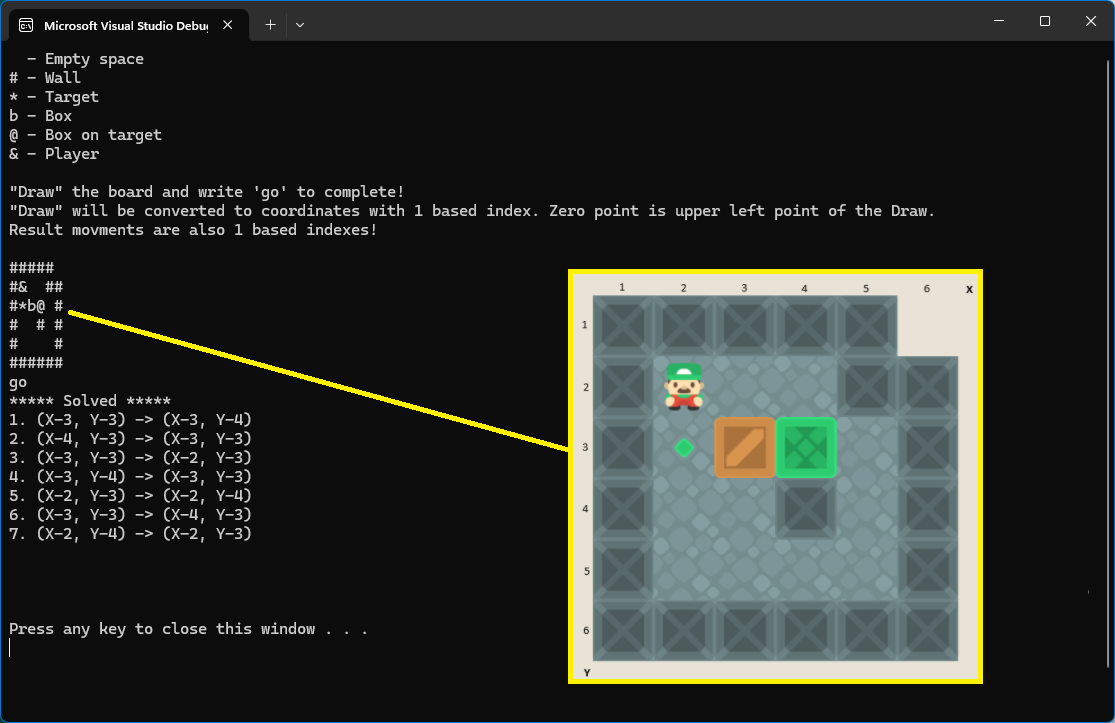
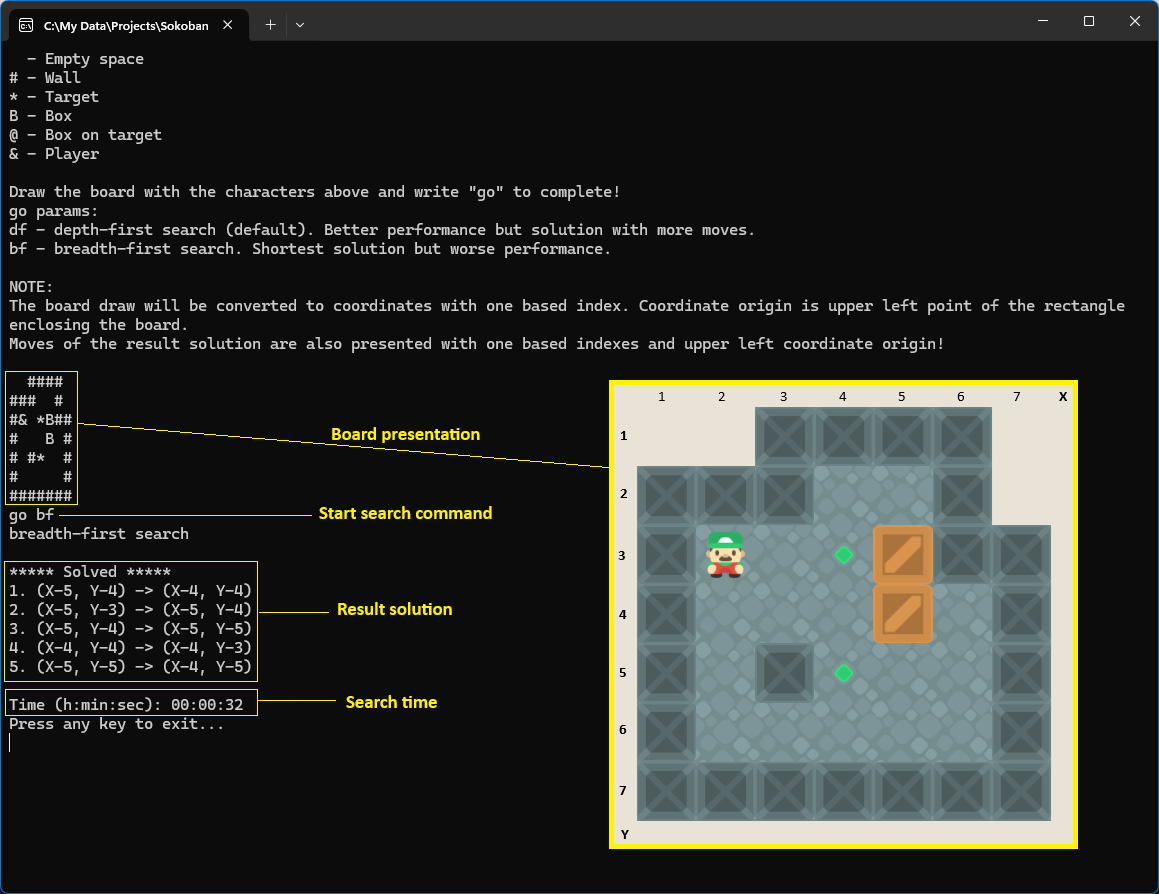
Added breadth-first search for shortest solution.

diff --git a/SokobanSolver/Board.cs b/SokobanSolver/Board.cs
@@ -61,7 +61,7 @@ namespace SokobanSolver
         /// - Have Potential to be solved.
         /// NOTE: In initial board condition, this property is not accurate until SetNext is called.
         /// </summary>
-        public BoardState BoardState { get; set; }
+        public bool IsSolution { get; set; }
 
         /// <summary>
         /// Constructor.
@@ -350,43 +350,81 @@ namespace SokobanSolver
         }
 
         /// <summary>
-        /// Analise the board and find next movements and current board state.
+        /// Returns true if board is in solved condition (there is no boxes out of the target positions).
         /// </summary>
-        /// <returns>Bottom of the tree with potentially solved board which can backtracked for the movements of the solution.</returns>
-        public Board SetNext()
+        /// <returns>True if board is in solved condition.</returns>
+        public bool IsSolved()
         {
-            // Check if this bord is solved (there is no boxes out of the target positions)
-            bool existUnsolved = _board.Values.Any(i => i == PositionType.Box);
-            if (!existUnsolved)
-            {
-                BoardState = BoardState.Solved;
-                return this;
-            }
+            return !_board.Values.Any(i => i == PositionType.Box);
+        }
 
-            BoardState = BoardState.HavePotential;
+        /// <summary>
+        /// Build solution tree and get the shortest solution node if exists.
+        /// NOTE: tree is breadth-first traversal. Worse performance and shortest solution.
+        /// </summary>
+        /// <param name="root">Root of the solution tree - initial state of the board.</param>
+        /// <returns>Solution node (can be backtracked for the movements of the solution) if exists or null.</returns>
+        public static Board BuildBFSolutionTree(Board root)
+        {
+            Queue<Board> parrentNodes = new Queue<Board>();
+            parrentNodes.Enqueue(root);
+            do
+            {
+                // Get next parent
+                Board parent = parrentNodes.Dequeue();
+
+                // Execute chain of analitic methods
+                ReachableBoxesResult reachable = parent.FindReachableBoxes();
+                List<BoxMovement> possibleMovements = parent.FindPossibleMovements(reachable.ReachableBoxes, reachable.ReachablePositions);
+                possibleMovements = parent.FilterMovements(possibleMovements);
+                List<Board> nextConditions = parent.FindPossibleBoardConditions(possibleMovements);
+                nextConditions = parent.FilterBoardConditions(nextConditions);
+                parent.PossibleNextConditions = nextConditions;
+                foreach (Board children in nextConditions)
+                {
+                    if (children.IsSolved())
+                        return children;// Solution node
+                    parrentNodes.Enqueue(children);
+                }
+            } while (parrentNodes.Any());
+
+            return null;// Not found solution
+        }
+
+        /// <summary>
+        /// Analise the board and find next movements and current board state.
+        /// NOTE: tree is depth-first traversal. Better performance and longer solution.
+        /// </summary>
+        /// <param name="root">Root of the solution tree - initial state of the board.</param>
+        /// <returns>Solution node (can be backtracked for the movements of the solution) if exists or null.</returns>
+        public static Board BuildDFSolutionTree(Board root)
+        {
+            // Check if this bord is solved 
+            if (root.IsSolved())
+            {
+                root.IsSolution = true;
+                return root;
+            }
 
             // Execute chain of analitic methods
-            ReachableBoxesResult reachable = FindReachableBoxes();
-            List<BoxMovement> possibleMovements = FindPossibleMovements(reachable.ReachableBoxes, reachable.ReachablePositions);
-            possibleMovements = FilterMovements(possibleMovements);
-            List<Board> nextConditions = FindPossibleBoardConditions(possibleMovements);
-            nextConditions = FilterBoardConditions(nextConditions);
-            PossibleNextConditions = nextConditions;
+            ReachableBoxesResult reachable = root.FindReachableBoxes();
+            List<BoxMovement> possibleMovements = root.FindPossibleMovements(reachable.ReachableBoxes, reachable.ReachablePositions);
+            possibleMovements = root.FilterMovements(possibleMovements);
+            List<Board> nextConditions = root.FindPossibleBoardConditions(possibleMovements);
+            nextConditions = root.FilterBoardConditions(nextConditions);
+            root.PossibleNextConditions = nextConditions;
 
             // If blocked exit without solution
-            if (!PossibleNextConditions.Any())
-            {
-                BoardState = BoardState.Blocked;
-                return this;
-            }
+            if (!nextConditions.Any())
+                return null;
 
             // Process children boards and exit immediately if solution is found.
-            Board result = this;
-            foreach (Board child in PossibleNextConditions)
+            Board result = null;
+            foreach (Board child in root.PossibleNextConditions)
             {
-                result = child.SetNext();
+                result = BuildDFSolutionTree(child);
                 // Exit with the first solution
-                if (result.BoardState == BoardState.Solved)
+                if (result != null && result.IsSolution)
                     break;
             }
 
@@ -867,7 +905,7 @@ namespace SokobanSolver
 
         public override string ToString()
         {
-            string boardState = Enum.GetName(typeof(BoardState), BoardState);
+            string boardState = IsSolution ? "Solution" : string.Empty;
 
             string movement = string.Empty;
             if (BoxMovement != null)

diff --git a/SokobanSolver/BoardParser.cs b/SokobanSolver/BoardParser.cs
@@ -11,7 +11,7 @@ namespace SokobanSolver
         /// Show instructions and read board.
         /// </summary>
         /// <returns>Board positions and player coordinates.</returns>
-        public static BoardDrawResult ShowLegendAndReadBordDraw()
+        public static (BoardDrawResult board, string commandParam) ShowLegendAndReadBordDraw()
         {
             Console.WriteLine("  - Empty space");
             Console.WriteLine("# - Wall");
@@ -20,12 +20,18 @@ namespace SokobanSolver
             Console.WriteLine("@ - Box on target");
             Console.WriteLine("& - Player");
             Console.WriteLine();
-            Console.WriteLine("\"Draw\" the board and write 'go' to complete!");
-            Console.WriteLine("\"Draw\" will be converted to coordinates with 1 based index. Zero point is upper left point of the Draw.");
-            Console.WriteLine("Result movments are also 1 based indexes!");
+            Console.WriteLine("Draw the board with the characters above and write \"go\" to complete!");
+            Console.WriteLine("go params:");
+            Console.WriteLine("df - depth-first search (default). Better performance but solution with more moves.");
+            Console.WriteLine("bf - breadth-first search. Shortest solution but worse performance.");
+            Console.WriteLine();
+            Console.WriteLine("NOTE:");
+            Console.WriteLine("The board draw will be converted to coordinates with one based index. Coordinate origin is upper left point of the rectangle enclosing the board.");
+            Console.WriteLine("Moves of the result solution are also presented with one based indexes and upper left coordinate origin!");
             Console.WriteLine();
 
             bool exit;
+            string line;
             ushort charCounter = 1;//X
             ushort lineCounter = 1;//Y
             List<BoardPositionContent> boardDefinition = new List<BoardPositionContent>();
@@ -33,8 +39,8 @@ namespace SokobanSolver
             ushort playerY = 0;
             do
             {
-                string line = Console.ReadLine().TrimEnd();
-                exit = line.Trim().Equals("go", StringComparison.OrdinalIgnoreCase);
+                line = Console.ReadLine().TrimEnd();
+                exit = line.Trim().StartsWith("go", StringComparison.OrdinalIgnoreCase);
                 if (!exit)
                 {
                     //NOTE: Leading spaces (before first character), have to be replaced with Not In Board.
@@ -76,7 +82,9 @@ namespace SokobanSolver
                 charCounter = 1;
             } while (!exit);
 
-            return new BoardDrawResult { BoardDefinition = boardDefinition, PlayerPositionX = playerX, PlayerPositionY = playerY };
+            string exitCommandParam = line.Replace("go", string.Empty, StringComparison.OrdinalIgnoreCase).Trim();
+            BoardDrawResult board = new BoardDrawResult { BoardDefinition = boardDefinition, PlayerPositionX = playerX, PlayerPositionY = playerY };
+            return (board, exitCommandParam);
         }
 
         /// <summary>
@@ -85,28 +93,27 @@ namespace SokobanSolver
         /// <param name="end">Last node of solving sequence.</param>
         public static void PrintResult(Board end)
         {
-            if (end.BoardState == BoardState.Solved)
-                Console.WriteLine($"***** Solved *****");
-            else
+            if (end == null)
+            {
                 Console.WriteLine($"***** Solution not found *****");
+                return;
+            }
 
+            Console.WriteLine($"***** Solved *****");
             // Print movements
             List<BoxMovement> movements = new List<BoxMovement>();
-            if (end.BoardState == BoardState.Solved)
+            Board currentBoard = end;
+            do
             {
-                Board currentBoard = end;
-                do
-                {
-                    if (currentBoard.BoxMovement != null)
-                        movements.Add(currentBoard.BoxMovement);
+                if (currentBoard.BoxMovement != null)
+                    movements.Add(currentBoard.BoxMovement);
 
-                    currentBoard = currentBoard.PreviousBoardCondition;
-                } while (currentBoard != null);
-                movements.Reverse();
+                currentBoard = currentBoard.PreviousBoardCondition;
+            } while (currentBoard != null);
+            movements.Reverse();
 
-                for (int i = 0; i < movements.Count; i++)
-                    Console.WriteLine($"{i+1}. {movements[i]}");
-            }
+            for (int i = 0; i < movements.Count; i++)
+                Console.WriteLine($"{i + 1}. {movements[i]}");
         }
 
         /// <summary>

diff --git a/SokobanSolver/Program.cs b/SokobanSolver/Program.cs
@@ -12,14 +12,26 @@ namespace SokobanSolver
             try
             {
                 // Show description and read user input
-                BoardDrawResult def = BoardParser.ShowLegendAndReadBordDraw();
+                (BoardDrawResult board, string commandParam) input = BoardParser.ShowLegendAndReadBordDraw();
 
                 // Validate user input
-                BoardParser.Vlidate(def.BoardDefinition, def.PlayerPositionX, def.PlayerPositionY);
+                BoardParser.Vlidate(input.board.BoardDefinition, input.board.PlayerPositionX, input.board.PlayerPositionY);
 
                 // Found the solution
-                Board board = new Board(def.BoardDefinition, def.PlayerPositionX, def.PlayerPositionY);
-                Board end = board.SetNext();
+                Board board = new Board(input.board.BoardDefinition, input.board.PlayerPositionX, input.board.PlayerPositionY);
+                Board end;
+                if (input.commandParam.Equals("bf", StringComparison.OrdinalIgnoreCase))
+                {
+                    Console.WriteLine("breadth-first search");
+                    Console.WriteLine();
+                    end = Board.BuildBFSolutionTree(board);
+                }
+                else
+                {
+                    Console.WriteLine("depth-first search");
+                    Console.WriteLine();
+                    end = Board.BuildDFSolutionTree(board);
+                }
 
                 // Print the result
                 BoardParser.PrintResult(end);
@@ -32,14 +44,13 @@ namespace SokobanSolver
                 Console.WriteLine();
             }
             
-            TimeSpan t = (DateTime.Now - start);
-            if (t.TotalSeconds < 1000)
-                Console.WriteLine($"Time: {Math.Round(t.TotalSeconds, 1)} seconds");
-            else if (t.TotalMinutes < 500)
-                Console.WriteLine($"Time: {Math.Round(t.TotalMinutes, 2)} minutes");
-            else
-                Console.WriteLine($"Time: {Math.Round(t.TotalHours, 3)} hours");
-
+            double totalSeconds = (DateTime.Now - start).TotalSeconds;
+            uint allSeconds = Convert.ToUInt32(totalSeconds);
+            uint allMinutes = allSeconds / 60;
+            uint secondsPart = allSeconds % 60;
+            uint hoursPart = allMinutes / 60;
+            uint minutesPart = allMinutes % 60;
+            Console.WriteLine($"Time (h:min:sec): {hoursPart:D2}:{minutesPart:D2}:{secondsPart:D2}");
             Console.WriteLine("Press any key to exit...");
             Console.ReadKey();
         }

diff --git a/SokobanSolver/DataModel/Enumerations.cs b/SokobanSolver/DataModel/Enumerations.cs
@@ -30,23 +30,4 @@
         /// </summary>
         BoxOnTarget,
     }
-
-    /// <summary>
-    /// Board conditions.
-    /// </summary>
-    public enum BoardState
-    {
-        /// <summary>
-        /// Not solved and not blocked.
-        /// </summary>
-        HavePotential,
-        /// <summary>
-        /// All boxes are on the targets.
-        /// </summary>
-        Solved,
-        /// <summary>
-        /// One or more boxes are blocked and not on targets.
-        /// </summary>
-        Blocked,
-    }
 }
